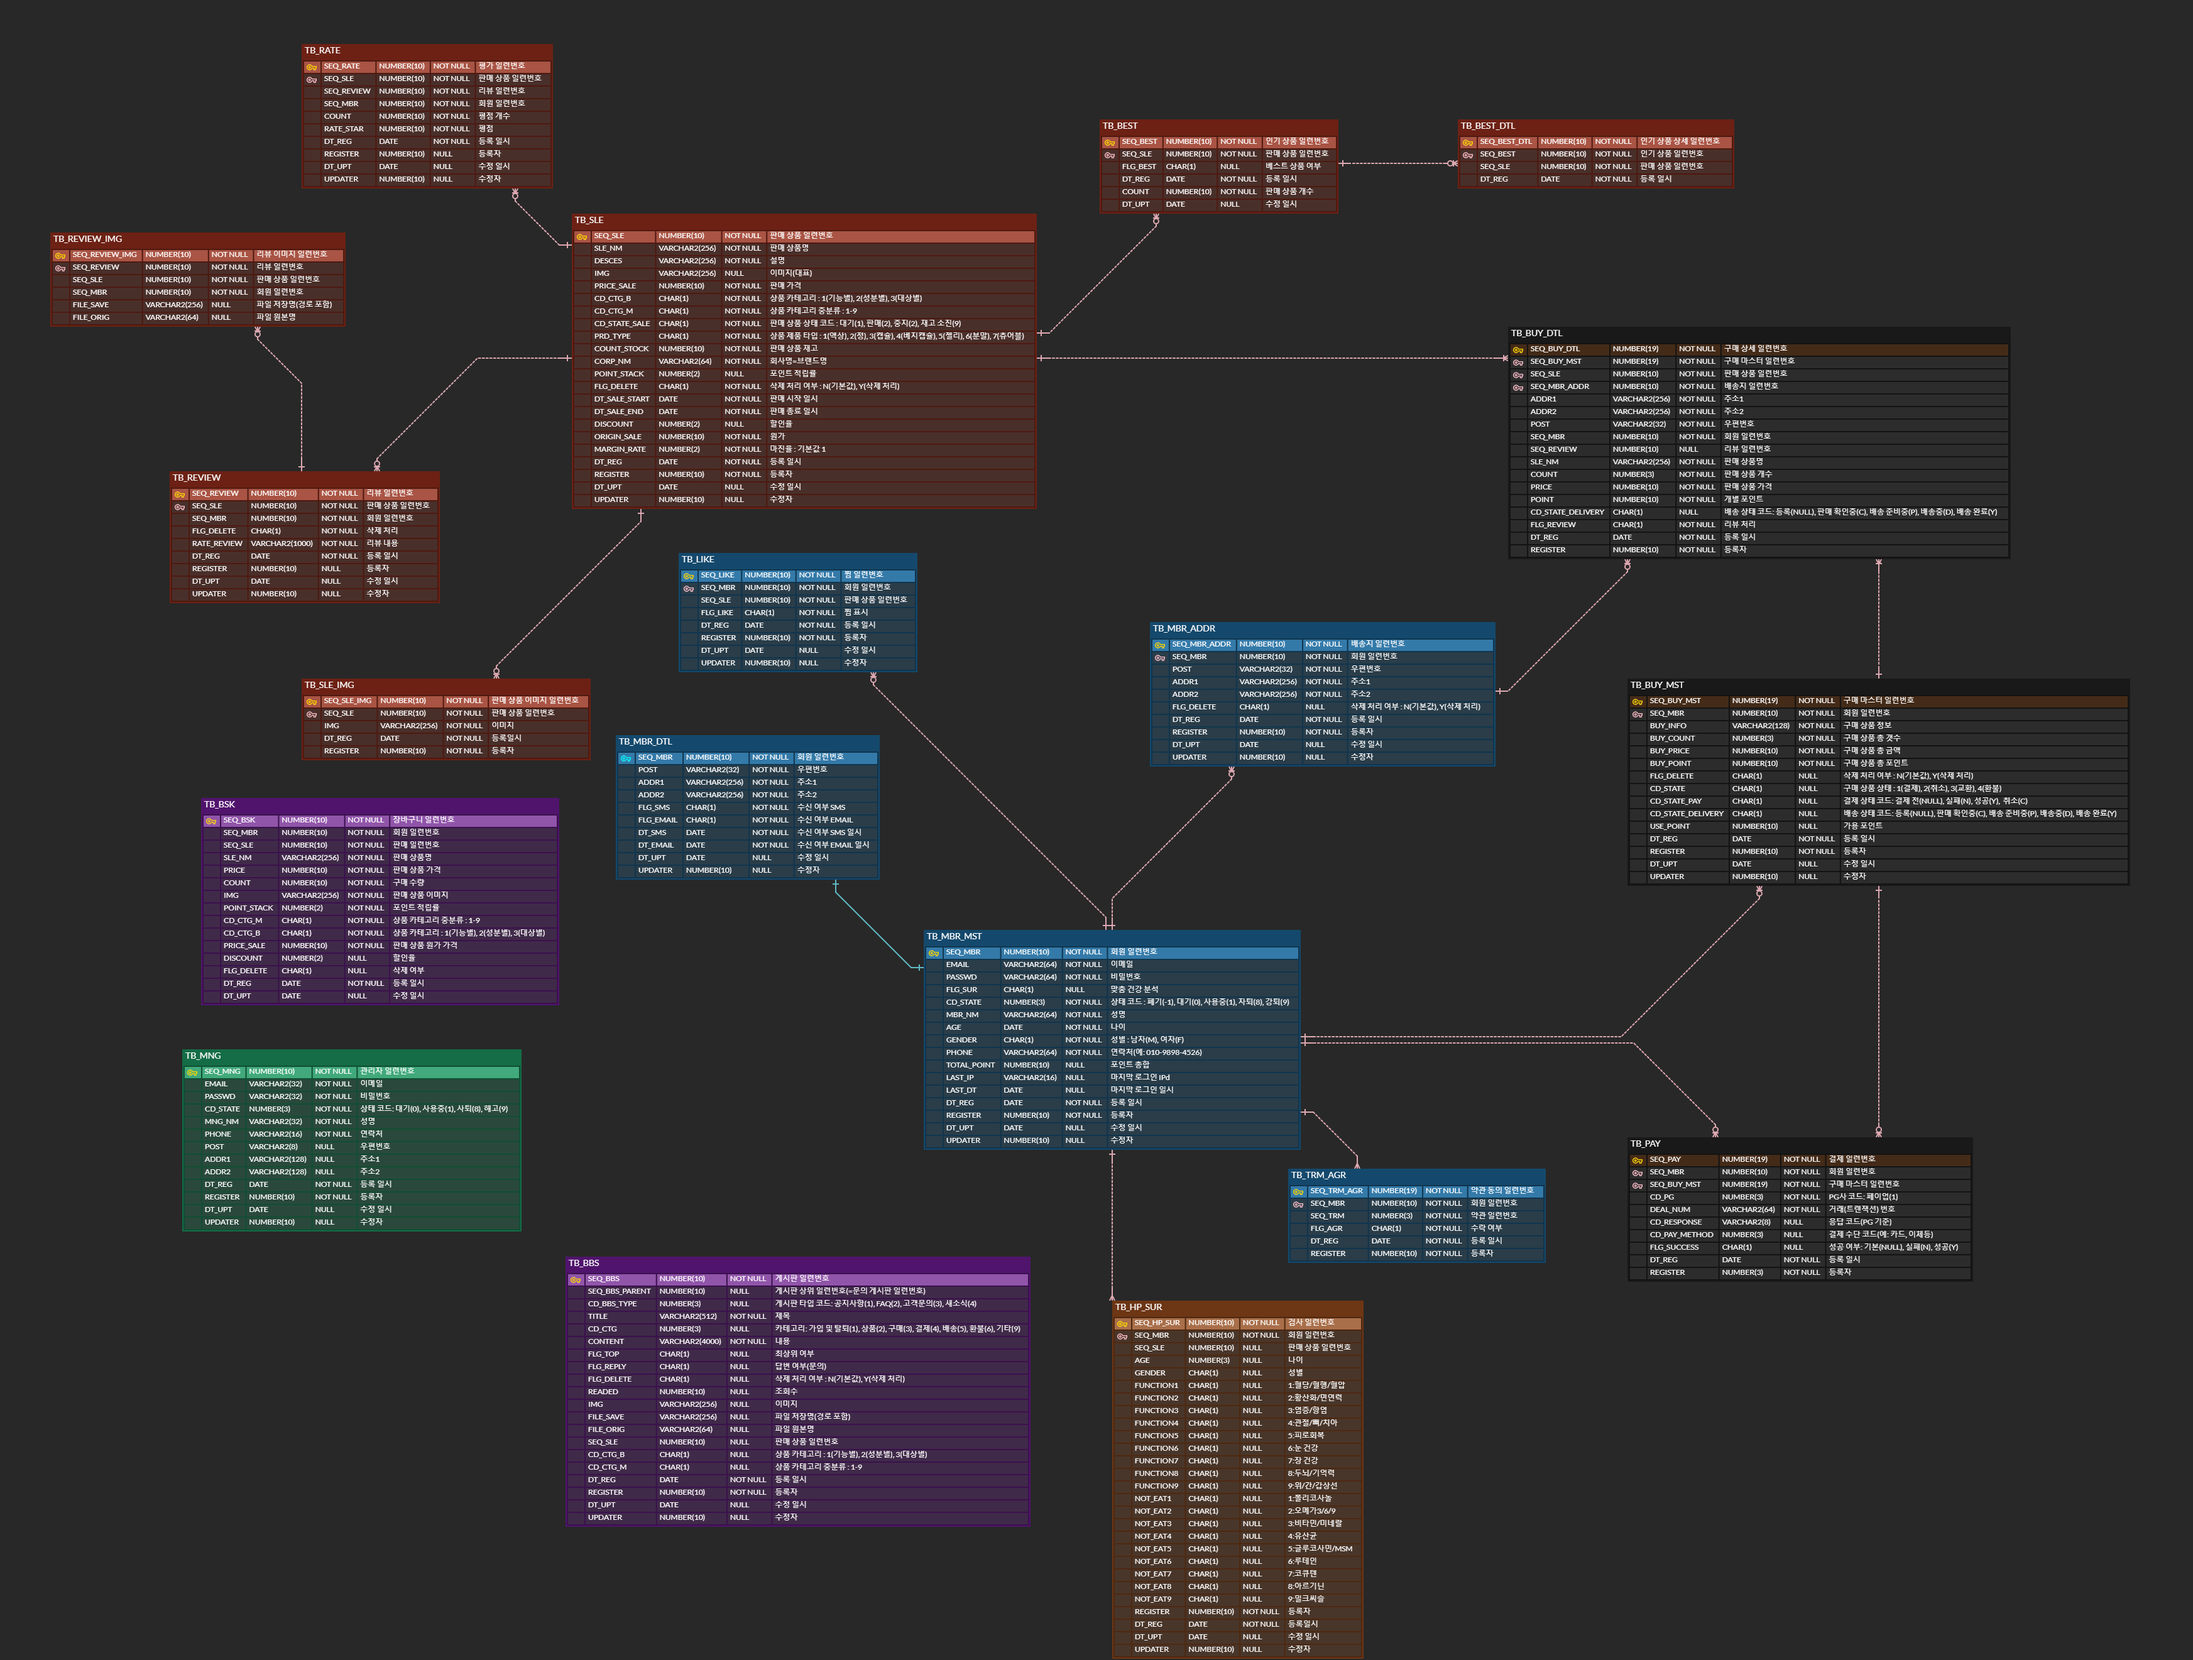
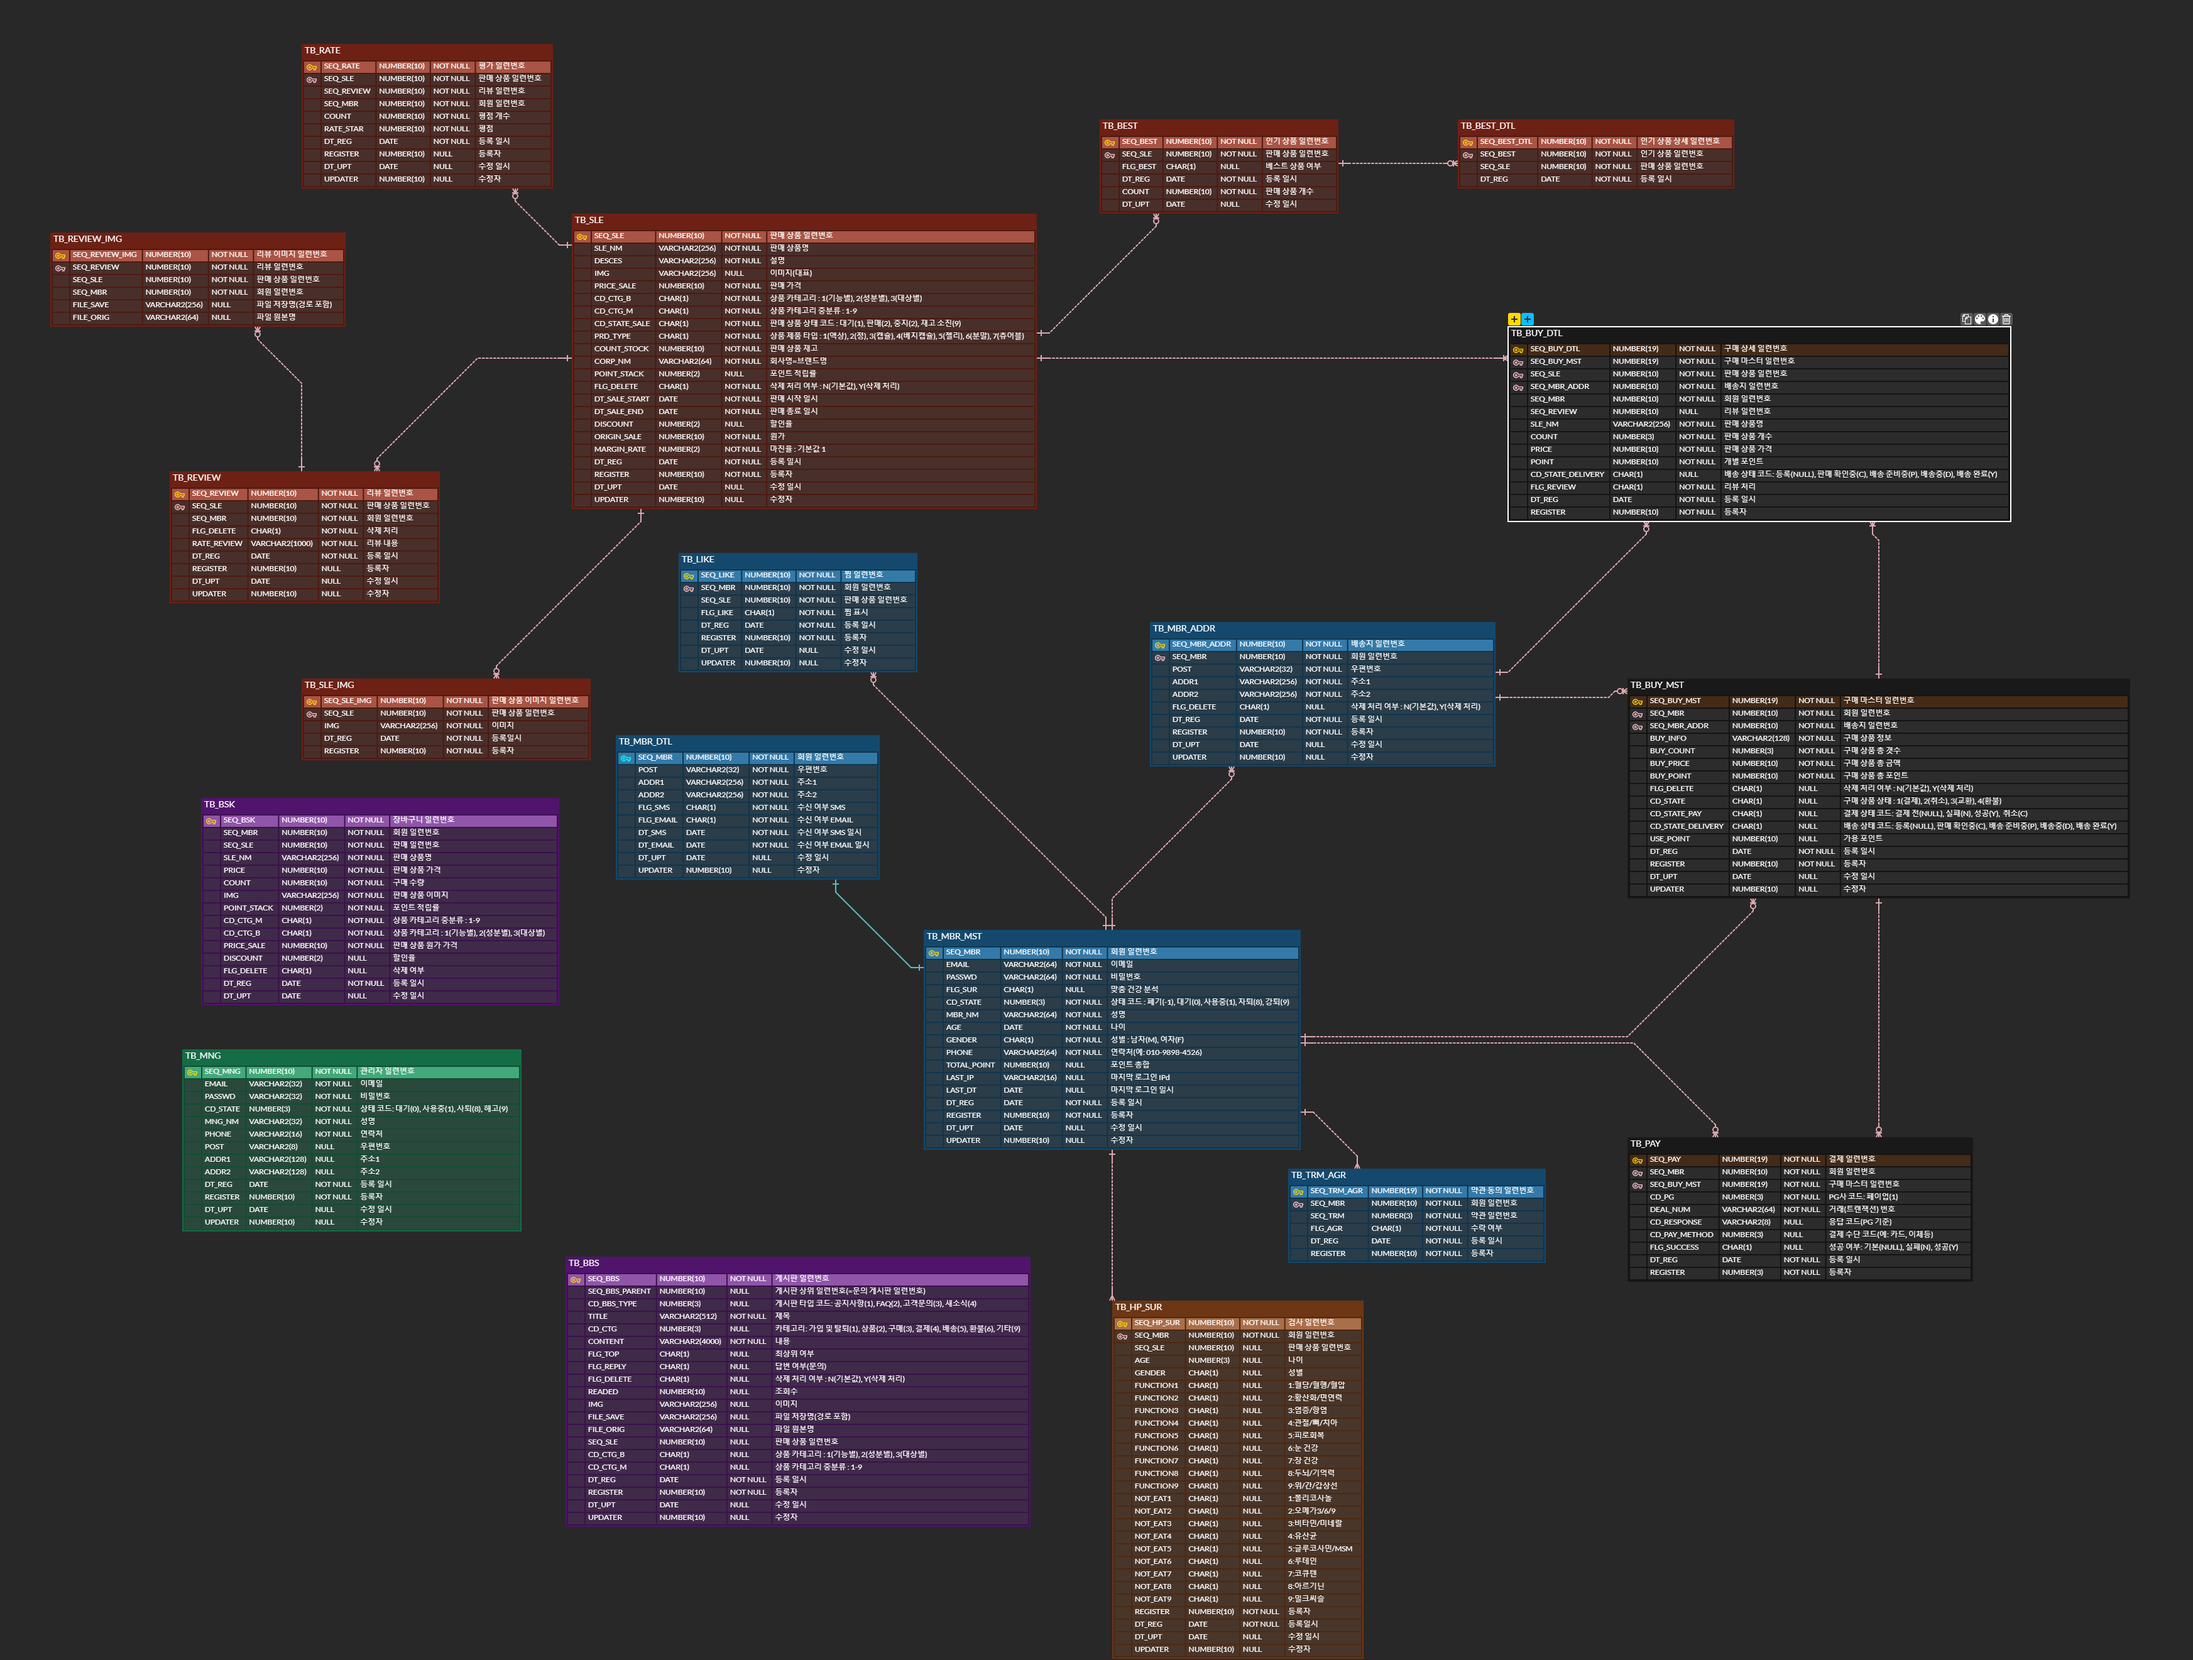
[UPDATE] 배송지

diff --git a/src/kr/co/bravomylife/front/buy/controller/BuyWeb.java b/src/kr/co/bravomylife/front/buy/controller/BuyWeb.java
@@ -21,9 +21,11 @@
 package kr.co.bravomylife.front.buy.controller;
 
 import java.util.ArrayList;
+import java.util.HashMap;
 import java.util.Hashtable;
 import java.util.LinkedList;
 import java.util.List;
+import java.util.Map;
 import java.util.Properties;
 
 import javax.inject.Inject;
@@ -37,6 +39,7 @@ import org.springframework.context.support.MessageSourceAccessor;
 import org.springframework.stereotype.Controller;
 import org.springframework.web.bind.annotation.RequestMapping;
 import org.springframework.web.bind.annotation.RequestMethod;
+import org.springframework.web.bind.annotation.ResponseBody;
 import org.springframework.web.servlet.ModelAndView;
 
 import kr.co.bravomylife.common.dto.FileUploadDto;
@@ -48,6 +51,8 @@ import kr.co.bravomylife.front.buy.service.BuySrvc;
 import kr.co.bravomylife.front.common.Common;
 import kr.co.bravomylife.front.common.dto.PagingDto;
 import kr.co.bravomylife.front.common.dto.PagingListDto;
+import kr.co.bravomylife.front.member.dto.MemberDto;
+import kr.co.bravomylife.front.member.service.MemberSrvc;
 import kr.co.bravomylife.front.sale.dto.ImageData;
 import kr.co.bravomylife.front.sale.dto.SaleDto;
 import kr.co.bravomylife.front.sale.dto.SaleFileDto;
@@ -80,6 +85,55 @@ public class BuyWeb extends Common {
 	
 	@Inject
 	SaleSrvc saleSrvc;
+	
+	@Inject
+	MemberSrvc memberSrvc;
+	
+	/**
+	 * @param request [요청 서블릿]
+	 * @param response [응답 서블릿]
+	 * @return ModelAndView
+	 * 
+	 * @since 2024-10-28
+	 * <p>DESCRIPTION:</p>
+	 * <p>IMPORTANT:</p>
+	 * <p>EXAMPLE:</p>
+	 */
+	 
+	@RequestMapping(value = "/front/buy/deliveryChanges.json", method = RequestMethod.POST, headers = {"content-type=application/json; charset=UTF-8", "accept=application/json"}, consumes="application/json; charset=UTF-8", produces="application/json; charset=UTF-8")
+	public @ResponseBody List<Map<String, Object>> deliveryChanges(HttpServletRequest request) {
+		
+		List<Map<String, Object>> responseList = new ArrayList<>();
+		MemberDto memberDto = new MemberDto();
+		
+		try {
+			
+			String staticKey	= staticProperties.getProperty("front.enc.user.aes256.key", "[UNDEFINED]");
+			SKwithAES aes		= new SKwithAES(staticKey);
+			
+			memberDto.setSeq_mbr(Integer.parseInt(getSession(request, "SEQ_MBR")));
+			
+			List<MemberDto> memberList = memberSrvc.deliveryChanges(memberDto);
+			
+			for (MemberDto member : memberList) {
+				
+				Map<String, Object> map = new HashMap<>();
+				
+				map.put("seq_mbr_addr", member.getSeq_mbr_addr());
+				map.put("post", aes.decode(member.getPost()));
+				map.put("addr1", aes.decode(member.getAddr1()));
+				map.put("addr2", aes.decode(member.getAddr2()));
+				
+				responseList.add(map);
+			}
+		}
+		catch (Exception e) {
+			logger.error("[" + this.getClass().getName() + ".deliveryChanges()] " + e.getMessage(), e);
+		}
+		finally {}
+		
+		return responseList;
+	}
 	
 	/**
 	 * @param request [요청 서블릿]
@@ -581,7 +635,7 @@ public class BuyWeb extends Common {
 	 * <p>EXAMPLE:</p>
 	 */
 	@RequestMapping(value = "/front/buy/writeProc.web")
-	public ModelAndView writeProc(HttpServletRequest request, HttpServletResponse response, BuyDetailListDto buyDetailListDto, int usePoint) {
+	public ModelAndView writeProc(HttpServletRequest request, HttpServletResponse response, BuyDetailListDto buyDetailListDto, int usePoint, MemberDto memberDto) {
 		
 		ModelAndView mav = new ModelAndView("redirect:/error.web");
 		
@@ -638,7 +692,7 @@ public class BuyWeb extends Common {
 				buyMasterDto.setTotal_point(totalPoint);
 				buyMasterDto.setRegister(Integer.parseInt(getSession(request, "SEQ_MBR")));
 				
-				if (buySrvc.insert(buyMasterDto, listBuyDetailDto, "N/A")) {
+				if (buySrvc.insert(buyMasterDto, listBuyDetailDto, "N/A",memberDto)) {
 					request.setAttribute("script"	, "alert('추후 결제 페이지로 이동 예정');");
 					request.setAttribute("redirect"	, "/");
 				}

diff --git a/src/kr/co/bravomylife/front/buy/service/BuySrvc.java b/src/kr/co/bravomylife/front/buy/service/BuySrvc.java
@@ -34,6 +34,7 @@ import kr.co.bravomylife.front.buy.dto.BuyDetailDto;
 import kr.co.bravomylife.front.buy.dto.BuyMasterDto;
 import kr.co.bravomylife.front.common.dto.PagingDto;
 import kr.co.bravomylife.front.common.dto.PagingListDto;
+import kr.co.bravomylife.front.member.dto.MemberDto;
 import kr.co.bravomylife.front.pay.dao.PayDao;
 import kr.co.bravomylife.front.pay.dto.PayDto;
 
@@ -98,6 +99,7 @@ public class BuySrvc {
 		buyMasterDto.setCd_state_pay(flg_success);	// 결제 완료(Y), 결제 전(N), 결제 취소(C)
 		buyMasterDto.setUpdater(updater);
 		result += buyDao.update(buyMasterDto);
+		buyDao.updateDetail(buyMasterDto);
 		
 		if (result == 2) return true;
 		else {
@@ -107,10 +109,19 @@ public class BuySrvc {
 	}
 	
 	@Transactional("txFront")
-	public boolean insert(BuyMasterDto buyMasterDto, ArrayList<BuyDetailDto> listBuyDetailDto, String deal_num) {
+	public boolean insert(BuyMasterDto buyMasterDto, ArrayList<BuyDetailDto> listBuyDetailDto, String deal_num, MemberDto memberDto) {
 			
 		int result = 0;
 		int bestCount = 0;
+		
+		// 결제 정보
+		PayDto payDto = new PayDto();
+		payDto.setSeq_pay(payDao.sequence());
+		payDto.setSeq_mbr(buyMasterDto.getSeq_mbr());
+		payDto.setSeq_buy_mst(buyMasterDto.getSeq_buy_mst());
+		payDto.setDeal_num(deal_num);
+		payDto.setRegister(buyMasterDto.getSeq_mbr());
+		result += payDao.insert(payDto);
 		
 		// int check = 0;
 		
@@ -125,6 +136,14 @@ public class BuySrvc {
 			listBuyDetailDto.get(loop).setSeq_buy_dtl(buyDao.sequenceDetail());
 			listBuyDetailDto.get(loop).setSeq_buy_mst(buyMasterDto.getSeq_buy_mst());
 			listBuyDetailDto.get(loop).setRegister(buyMasterDto.getRegister());
+			listBuyDetailDto.get(loop).setSeq_mbr_addr(memberDto.getSeq_mbr_addr());
+			
+			int seq_buy_dtl = listBuyDetailDto.get(loop).getSeq_buy_dtl();
+			
+			payDto.setSeq_buy_dtl(seq_buy_dtl);
+			payDto.setSeq_pay(payDao.sequence());
+			
+			payDao.insertDetail(payDto);
 			
 			result += buyDao.insertDetail(listBuyDetailDto.get(loop));
 			result += buyDao.updateCountStock(listBuyDetailDto.get(loop));
@@ -157,16 +176,6 @@ public class BuySrvc {
 			}
 			*/
 		}
-		
-		// 결제 정보
-		PayDto payDto = new PayDto();
-		payDto.setSeq_pay(payDao.sequence());
-		payDto.setSeq_mbr(buyMasterDto.getSeq_mbr());
-		payDto.setSeq_buy_mst(buyMasterDto.getSeq_buy_mst());
-		payDto.setDeal_num(deal_num);
-		payDto.setRegister(buyMasterDto.getSeq_mbr());
-		result += payDao.insert(payDto);
-		
 		if (result == 1 + listBuyDetailDto.size() + listBuyDetailDto.size() + 1) return true;
 		else {
 			TransactionAspectSupport.currentTransactionStatus().setRollbackOnly();

diff --git a/src/kr/co/bravomylife/front/pay/controller/PayWeb.java b/src/kr/co/bravomylife/front/pay/controller/PayWeb.java
@@ -163,7 +163,9 @@ public class PayWeb extends Common {
 	}
 	
 	@RequestMapping(value = "/front/pay/payup/order.json", method = RequestMethod.POST)
-	public @ResponseBody Map<String,Object> order(@RequestParam Map<String, String> param, HttpServletRequest request, BuyDetailListDto buyDetailListDto) throws NoSuchAlgorithmException {
+	public @ResponseBody Map<String,Object> order(@RequestParam Map<String, String> param, HttpServletRequest request, BuyDetailListDto buyDetailListDto, MemberDto memberDto) throws NoSuchAlgorithmException {
+		
+		logger.debug("post 값 확인" + memberDto.getPost());
 		
 		Map<String,Object> returnMap = new HashMap<>();
 		// Map<String,String> map = new HashMap<>();
@@ -268,9 +270,10 @@ public class PayWeb extends Common {
 					buyMasterDto.setBuy_price(totalPrice);
 					buyMasterDto.setTotal_point(totalPoint);
 					buyMasterDto.setUse_point(usePoint);
+					buyMasterDto.setSeq_mbr_addr(memberDto.getSeq_mbr_addr());
 					buyMasterDto.setRegister(Integer.parseInt(getSession(request, "SEQ_MBR")));
 					
-					if (!buySrvc.insert(buyMasterDto, (ArrayList<BuyDetailDto>) buyDetailListDto.getBuyList(), deal_num)) {
+					if (!buySrvc.insert(buyMasterDto, (ArrayList<BuyDetailDto>) buyDetailListDto.getBuyList(), deal_num, memberDto)) {
 						// 구매 정보 저장 에러
 						returnMap.put("responseCode", "B001");
 						returnMap.put("responseMsg", "[ERROR]구매 정보 저장");

diff --git a/src/kr/co/bravomylife/front/pay/dto/PayDto.java b/src/kr/co/bravomylife/front/pay/dto/PayDto.java
@@ -33,6 +33,7 @@ public class PayDto {
 	private int seq_pay			= 0;
 	private int seq_mbr			= 0;
 	private int seq_buy_mst		= 0;
+	private int seq_buy_dtl		= 0;
 	private int cd_pg			= 0;
 	private String deal_num		= "";
 	private String cd_response	= "";
@@ -42,6 +43,12 @@ public class PayDto {
 	private int register		= 0;
 	
 	
+	public int getSeq_buy_dtl() {
+		return seq_buy_dtl;
+	}
+	public void setSeq_buy_dtl(int seq_buy_dtl) {
+		this.seq_buy_dtl = seq_buy_dtl;
+	}
 	public int getSeq_pay() {
 		return seq_pay;
 	}

diff --git a/src/kr/co/bravomylife/front/member/dao/MemberDao.java b/src/kr/co/bravomylife/front/member/dao/MemberDao.java
@@ -39,6 +39,10 @@ import kr.co.bravomylife.front.member.dto.MemberDto;
 @Repository("kr.co.bravomylife.front.member.dao.MemberDao")
 public class MemberDao extends BaseDao {
 	
+	public List<MemberDto> deliveryChanges(MemberDto memberDto) {
+		return sqlSessionFront.selectList("kr.co.bravomylife.front.mybatis.member.Member.deliveryChanges", memberDto);
+	}
+	
 	public int deleteDelivery(MemberDto memberDto) {
 		return sqlSessionFront.update("kr.co.bravomylife.front.mybatis.member.Member.deleteDelivery", memberDto);
 	}

diff --git a/src/kr/co/bravomylife/front/buy/dao/BuyDao.java b/src/kr/co/bravomylife/front/buy/dao/BuyDao.java
@@ -41,6 +41,10 @@ import kr.co.bravomylife.front.sale.dto.SaleDto;
 @Service("kr.co.bravomylife.front.buy.dao.BuyDao")
 public class BuyDao extends BaseDao {
 	
+	public int updateDetail(BuyMasterDto buyMasterDto) {
+		return sqlSessionFront.update("kr.co.bravomylife.front.mybatis.buy.BuyDetail.updateDetail", buyMasterDto);
+	}
+	
 	public int insertBestMst(BuyDetailDto buyDetailDto) {
 		return sqlSessionFront.insert("kr.co.bravomylife.front.mybatis.buy.BuyDetail.insertBestMst", buyDetailDto);
 	}

diff --git a/src/kr/co/bravomylife/front/member/service/MemberSrvc.java b/src/kr/co/bravomylife/front/member/service/MemberSrvc.java
@@ -20,6 +20,8 @@
  */
 package kr.co.bravomylife.front.member.service;
 
+import java.util.List;
+
 import javax.inject.Inject;
 
 import org.springframework.stereotype.Service;
@@ -49,6 +51,10 @@ public class MemberSrvc {
 	
 	@Inject
 	TermAgreeDao termAgreeDao;
+	
+	public List<MemberDto> deliveryChanges(MemberDto memberDto) {
+		return memberDao.deliveryChanges(memberDto);
+	}
 	
 	@Transactional("txFront")
 	public boolean deleteDelivery(MemberDto memberDto) {

diff --git a/src/kr/co/bravomylife/front/pay/dao/PayDao.java b/src/kr/co/bravomylife/front/pay/dao/PayDao.java
@@ -36,6 +36,10 @@ import kr.co.bravomylife.front.pay.dto.PayDto;
 @Repository("kr.co.bravomylife.front.pay.dao.PayDao")
 public class PayDao extends BaseDao {
 
+	public int insertDetail(PayDto payDto) {
+		return sqlSessionFront.insert("kr.co.bravomylife.front.mybatis.pay.Pay.insertDetail", payDto);
+	}
+	
 	public PayDto select(PayDto payDto) {
 		return sqlSessionFront.selectOne("kr.co.bravomylife.front.mybatis.pay.Pay.select", payDto);
 	}

diff --git a/src/kr/co/bravomylife/front/buy/dto/BuyDetailDto.java b/src/kr/co/bravomylife/front/buy/dto/BuyDetailDto.java
@@ -60,8 +60,15 @@ public class BuyDetailDto {
 	private String flg_delete				= "";
 	private int point_stack					= 0;
 	private int price_sale					= 0;
+	private int seq_mbr_addr			= 0;
 	
 	
+	public int getSeq_mbr_addr() {
+		return seq_mbr_addr;
+	}
+	public void setSeq_mbr_addr(int seq_mbr_addr) {
+		this.seq_mbr_addr = seq_mbr_addr;
+	}
 	public int getSeq_best() {
 		return seq_best;
 	}

diff --git a/src/kr/co/bravomylife/front/buy/dto/BuyMasterDto.java b/src/kr/co/bravomylife/front/buy/dto/BuyMasterDto.java
@@ -45,8 +45,15 @@ public class BuyMasterDto {
 	private int updater					= 0;
 	private int total_point				= 0;
 	private int use_point				= 0;
+	private int seq_mbr_addr			= 0;
 	
 	
+	public int getSeq_mbr_addr() {
+		return seq_mbr_addr;
+	}
+	public void setSeq_mbr_addr(int seq_mbr_addr) {
+		this.seq_mbr_addr = seq_mbr_addr;
+	}
 	public int getUse_point() {
 		return use_point;
 	}
